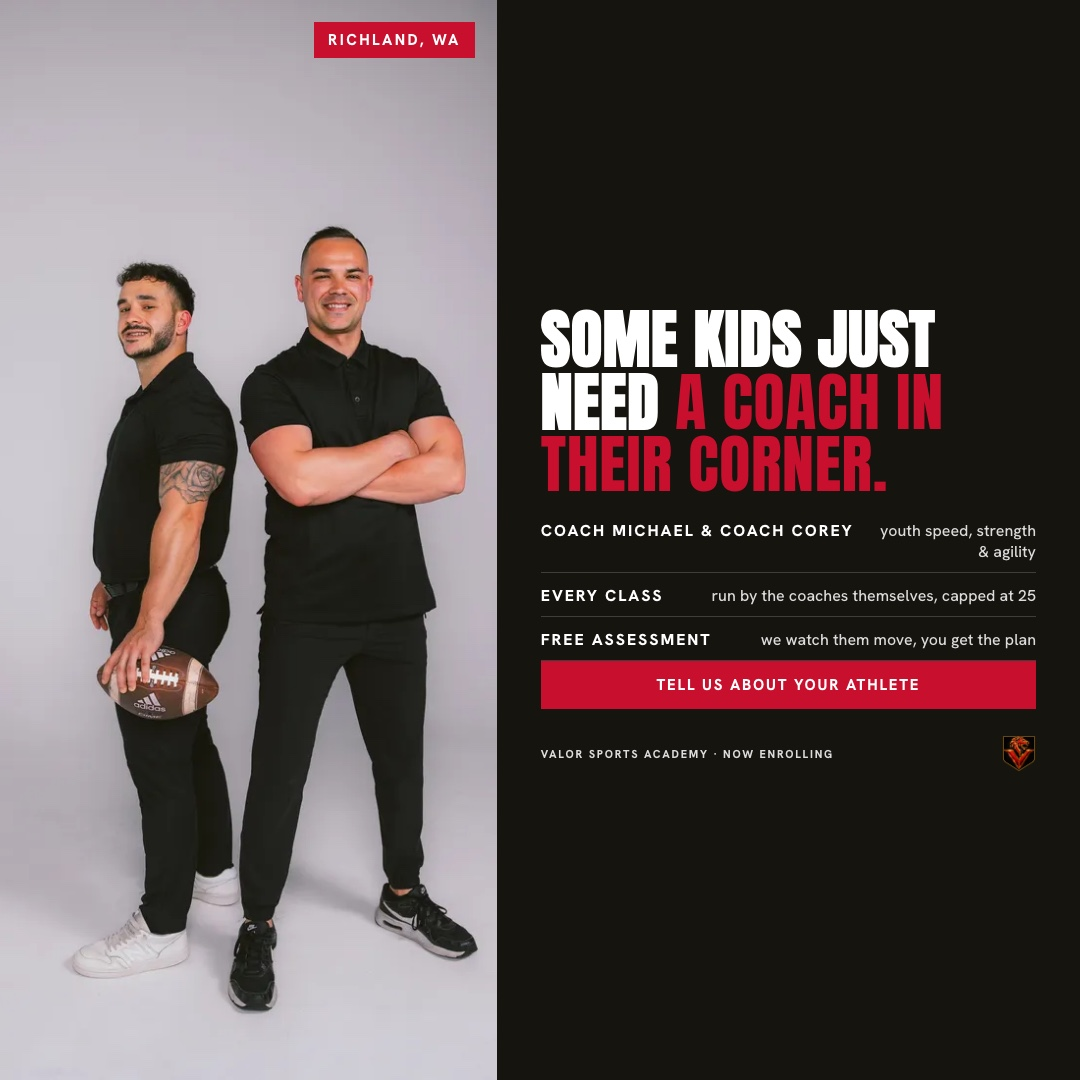
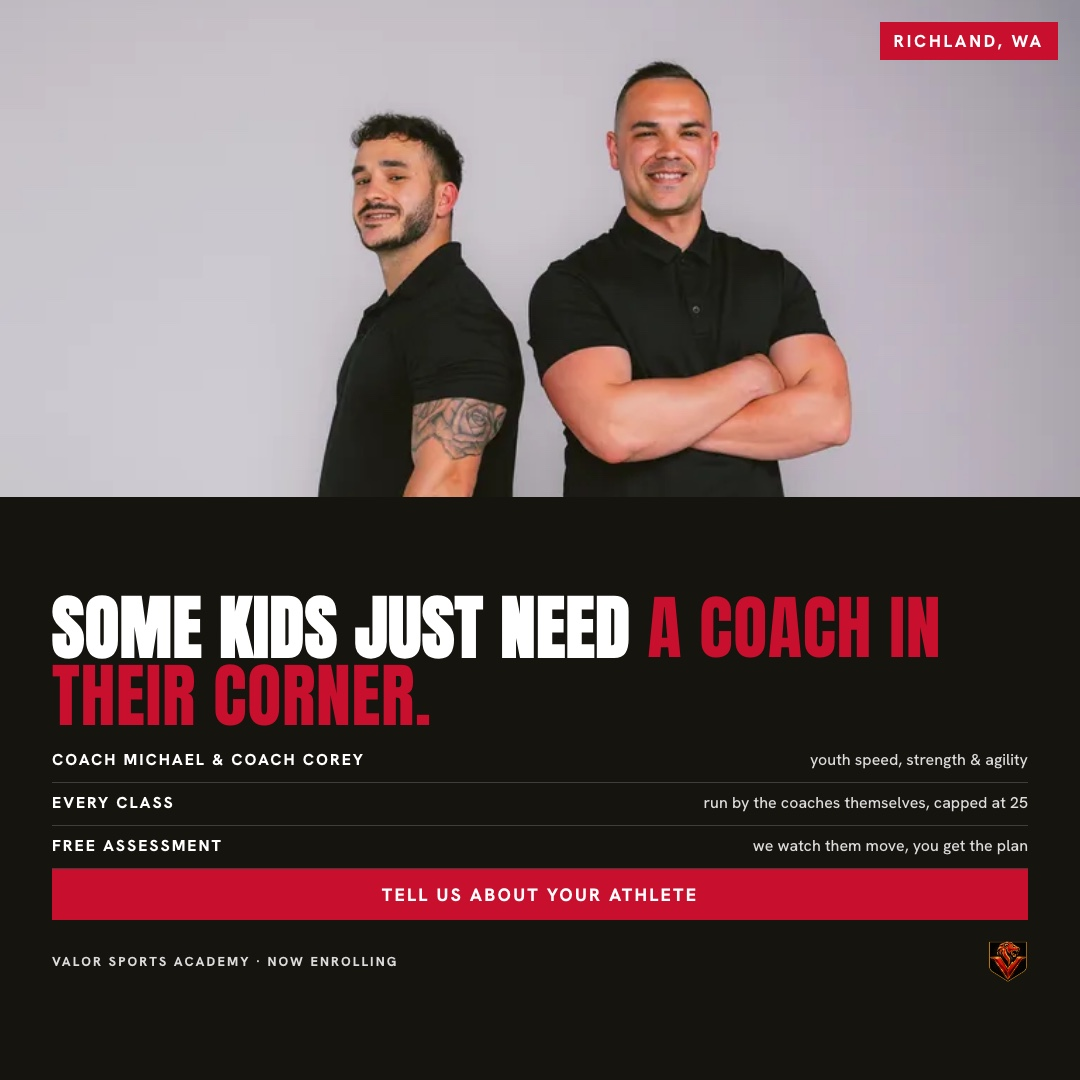
Fall 2026 static ads: square layout rebuilt as stacked photo + card

diff --git a/social/templates/ads-fall-2026/buildathlete-1x1.html b/social/templates/ads-fall-2026/buildathlete-1x1.html
@@ -5,20 +5,20 @@
 *{margin:0;padding:0;box-sizing:border-box}
 html,body{width:1080px;height:1080px;overflow:hidden;background:var(--cream)}
 body{font-family:var(--body);-webkit-font-smoothing:antialiased}
-.canvas{position:relative;width:1080px;height:1080px;overflow:hidden;display:flex;flex-direction:row}
+.canvas{position:relative;width:1080px;height:1080px;overflow:hidden;display:flex;flex-direction:column}
 .photo{position:relative;flex:0 0 46%;overflow:hidden;background:var(--dark)}
 .photo img{width:100%;height:100%;object-fit:cover;object-position:50% 40%}
-.tag{position:absolute;top:22px;right:22px;background:var(--red);color:#fff;font-weight:800;font-size:15px;letter-spacing:.16em;padding:8px 14px}
-.copy{flex:1;display:flex;flex-direction:column;justify-content:center;padding:44px;background:var(--cream);color:var(--dark);min-width:0}
-h1{font-family:var(--display);font-size:64px;line-height:.98;text-transform:uppercase;letter-spacing:.01em}
+.tag{position:absolute;top:22px;right:22px;background:var(--red);color:#fff;font-weight:800;font-size:17px;letter-spacing:.16em;padding:8px 14px}
+.copy{flex:1;display:flex;flex-direction:column;justify-content:center;padding:40px 52px;background:var(--cream);color:var(--dark);min-width:0}
+h1{font-family:var(--display);font-size:70px;line-height:.98;text-transform:uppercase;letter-spacing:.01em}
 h1 b{font-weight:400;color:var(--red)}
-.rows{margin-top:24px;display:grid;gap:12px}
-.row{display:flex;justify-content:space-between;align-items:baseline;gap:18px;border-bottom:1px solid rgba(22,20,15,.18);padding-bottom:10px;font-size:RO1080px}
+.rows{margin-top:18px;display:grid;gap:9px}
+.row{display:flex;justify-content:space-between;align-items:baseline;gap:18px;border-bottom:1px solid rgba(22,20,15,.18);padding-bottom:12px;font-size:RO1080px}
 .row b{font-weight:800;letter-spacing:.12em;text-transform:uppercase;white-space:nowrap}
 .row span{font-weight:500;text-align:right;opacity:.85}
-.pill{margin-top:15MTpx;background:var(--red);color:#fff;font-weight:800;font-size:15px;letter-spacing:.12em;text-transform:uppercase;padding:14px 18px;text-align:center}
-.foot{margin-top:26px;display:flex;justify-content:space-between;align-items:center;font-weight:800;font-size:11px;letter-spacing:.16em;text-transform:uppercase;opacity:.85}
-.foot img{width:34px}
+.pill{margin-top:18MTpx;background:var(--red);color:#fff;font-weight:800;font-size:18px;letter-spacing:.12em;text-transform:uppercase;padding:14px 18px;text-align:center}
+.foot{margin-top:20px;display:flex;justify-content:space-between;align-items:center;font-weight:800;font-size:13px;letter-spacing:.16em;text-transform:uppercase;opacity:.85}
+.foot img{width:40px}
 </style></head><body><div class="canvas">
   <div class="photo"><img src="assets/drill.jpg"><div class="tag">RICHLAND, WA</div></div>
   <div class="copy">

diff --git a/social/templates/ads-fall-2026/coachincorner-1x1.html b/social/templates/ads-fall-2026/coachincorner-1x1.html
@@ -5,20 +5,20 @@
 *{margin:0;padding:0;box-sizing:border-box}
 html,body{width:1080px;height:1080px;overflow:hidden;background:var(--cream)}
 body{font-family:var(--body);-webkit-font-smoothing:antialiased}
-.canvas{position:relative;width:1080px;height:1080px;overflow:hidden;display:flex;flex-direction:row}
+.canvas{position:relative;width:1080px;height:1080px;overflow:hidden;display:flex;flex-direction:column}
 .photo{position:relative;flex:0 0 46%;overflow:hidden;background:var(--dark)}
 .photo img{width:100%;height:100%;object-fit:cover;object-position:50% 25%}
-.tag{position:absolute;top:22px;right:22px;background:var(--red);color:#fff;font-weight:800;font-size:15px;letter-spacing:.16em;padding:8px 14px}
-.copy{flex:1;display:flex;flex-direction:column;justify-content:center;padding:44px;background:var(--dark);color:#fff;min-width:0}
-h1{font-family:var(--display);font-size:64px;line-height:.98;text-transform:uppercase;letter-spacing:.01em}
+.tag{position:absolute;top:22px;right:22px;background:var(--red);color:#fff;font-weight:800;font-size:17px;letter-spacing:.16em;padding:8px 14px}
+.copy{flex:1;display:flex;flex-direction:column;justify-content:center;padding:40px 52px;background:var(--dark);color:#fff;min-width:0}
+h1{font-family:var(--display);font-size:70px;line-height:.98;text-transform:uppercase;letter-spacing:.01em}
 h1 b{font-weight:400;color:var(--red)}
-.rows{margin-top:24px;display:grid;gap:12px}
-.row{display:flex;justify-content:space-between;align-items:baseline;gap:18px;border-bottom:1px solid rgba(255,255,255,.18);padding-bottom:10px;font-size:RO1080px}
+.rows{margin-top:18px;display:grid;gap:9px}
+.row{display:flex;justify-content:space-between;align-items:baseline;gap:18px;border-bottom:1px solid rgba(255,255,255,.18);padding-bottom:12px;font-size:RO1080px}
 .row b{font-weight:800;letter-spacing:.12em;text-transform:uppercase;white-space:nowrap}
 .row span{font-weight:500;text-align:right;opacity:.85}
-.pill{margin-top:15MTpx;background:var(--red);color:#fff;font-weight:800;font-size:15px;letter-spacing:.12em;text-transform:uppercase;padding:14px 18px;text-align:center}
-.foot{margin-top:26px;display:flex;justify-content:space-between;align-items:center;font-weight:800;font-size:11px;letter-spacing:.16em;text-transform:uppercase;opacity:.85}
-.foot img{width:34px}
+.pill{margin-top:18MTpx;background:var(--red);color:#fff;font-weight:800;font-size:18px;letter-spacing:.12em;text-transform:uppercase;padding:14px 18px;text-align:center}
+.foot{margin-top:20px;display:flex;justify-content:space-between;align-items:center;font-weight:800;font-size:13px;letter-spacing:.16em;text-transform:uppercase;opacity:.85}
+.foot img{width:40px}
 </style></head><body><div class="canvas">
   <div class="photo"><img src="assets/brothers.webp"><div class="tag">RICHLAND, WA</div></div>
   <div class="copy">
